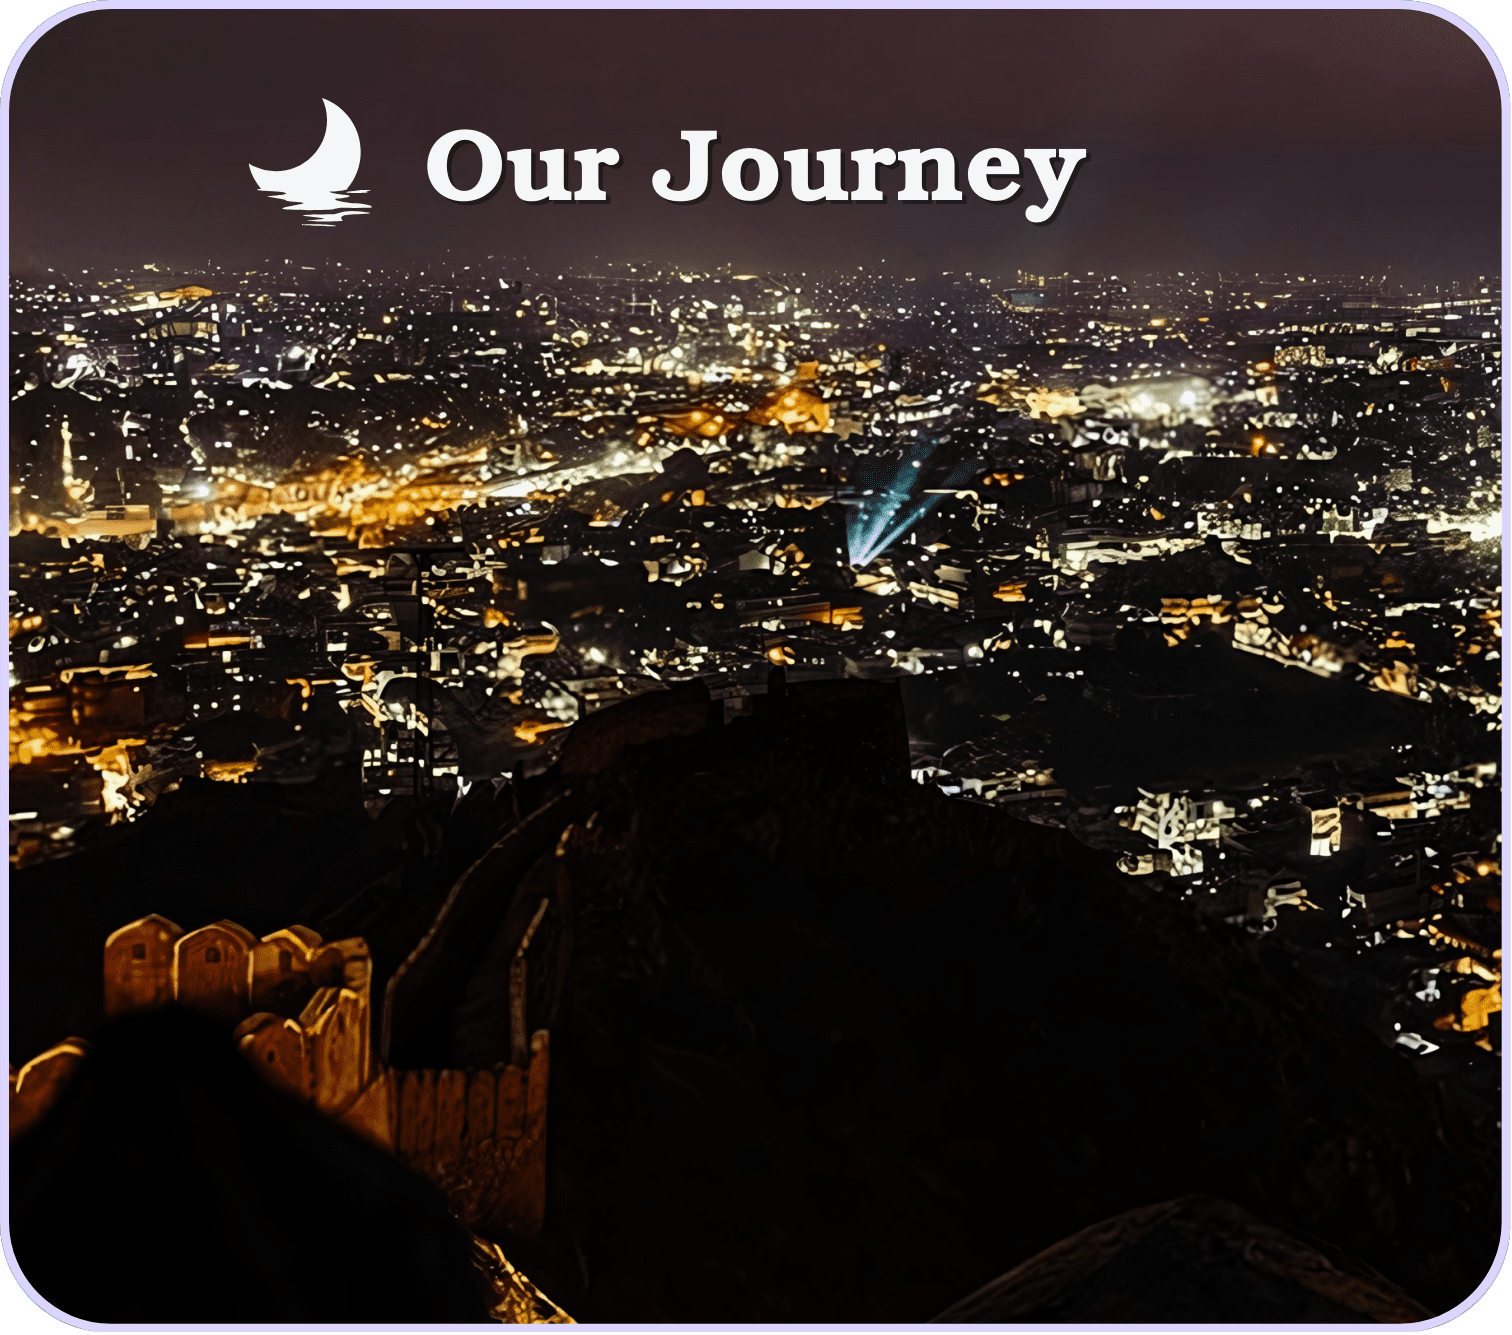
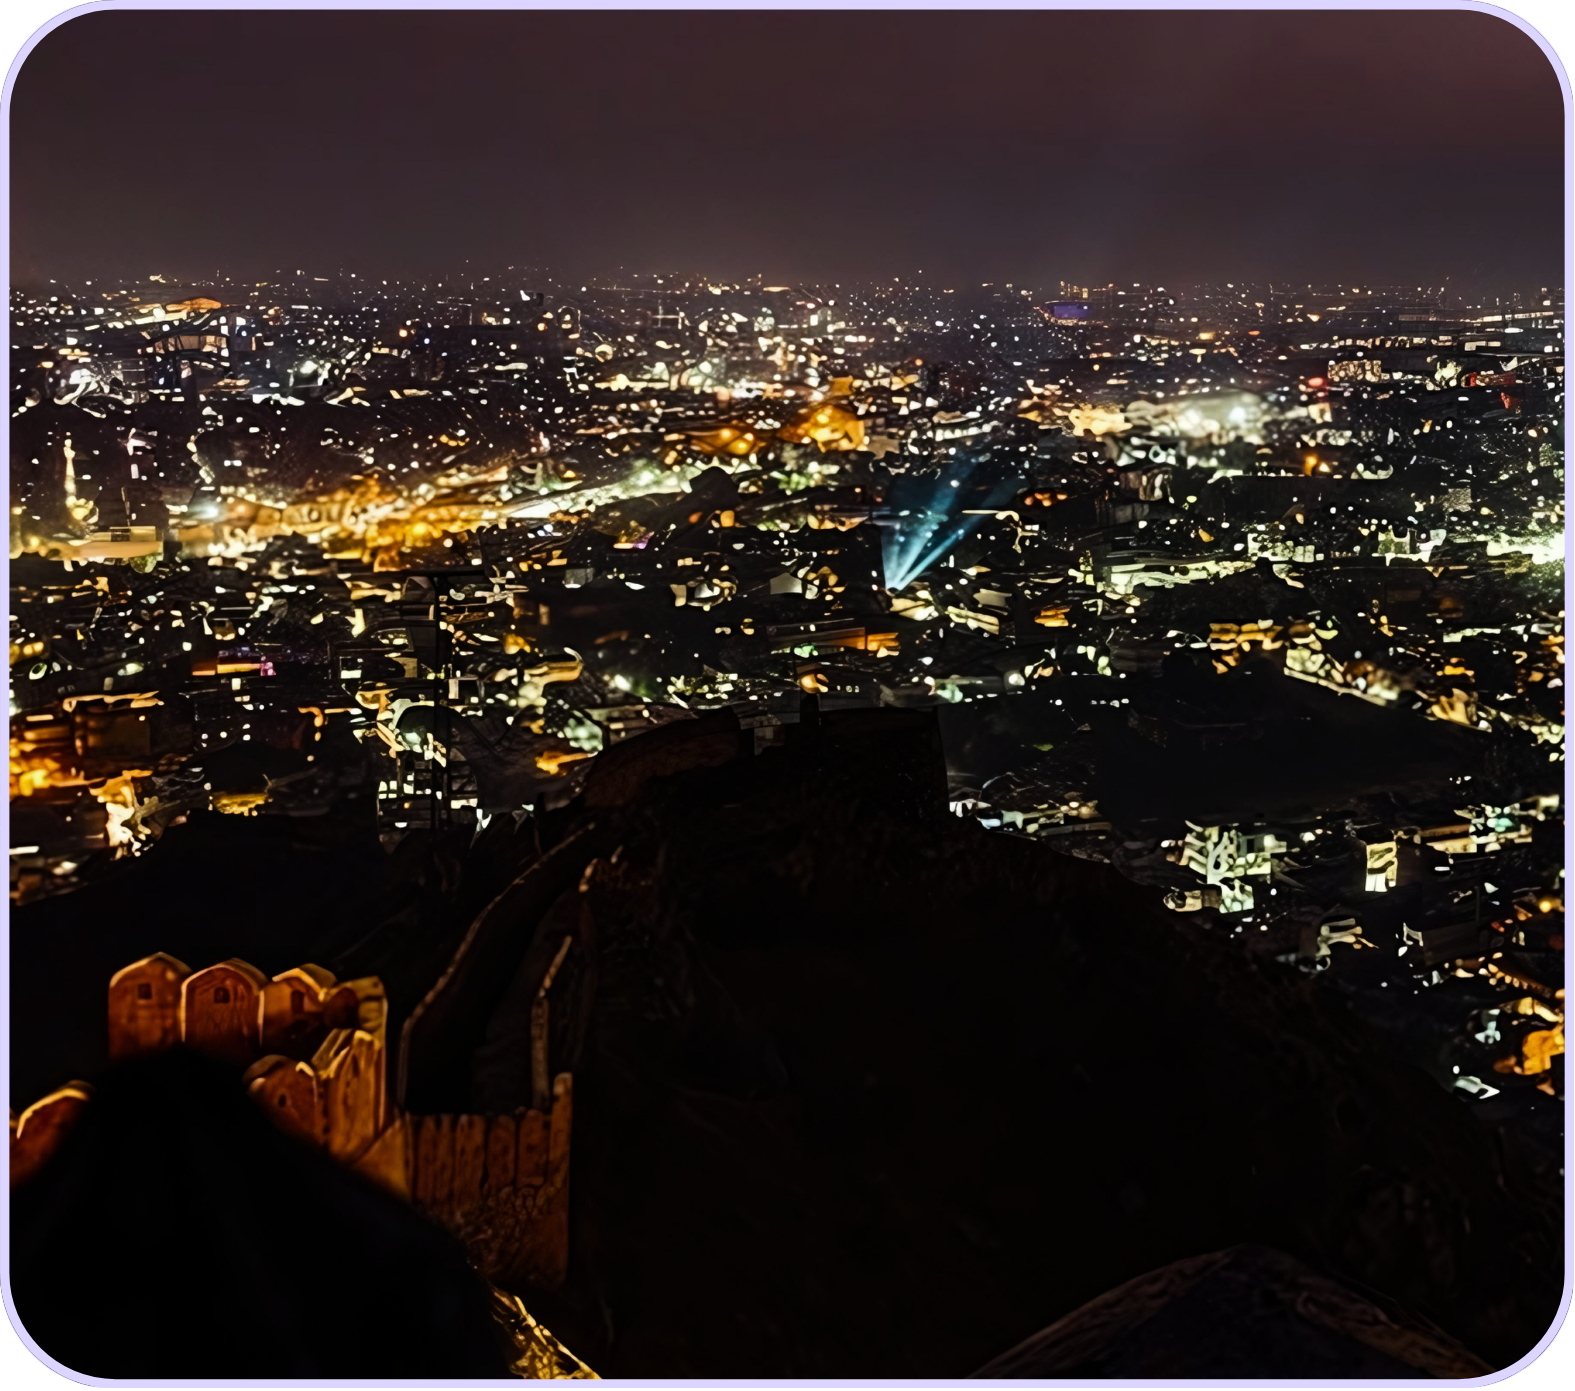
about us updated

diff --git a/frontend/src/pages/AboutUs.jsx b/frontend/src/pages/AboutUs.jsx
@@ -81,15 +81,20 @@ export const AboutUs = () => {
         />
       </div>
 
-      <div className="flex w-full h-[400px]">
-        <div className="relative h-full w-[25%] mx-auto my-8 ">
+      {/* Our journey box   */}
+
+      <div className="flex w-full h-[500px] border mt-[50px] ">
+        <div className="relative h-[85%] w-[25%] mx-auto my-8 rounded-3xl ">
           {" "}
           {/* Centering the component */}
           <img
             src={ourJourney}
             alt="Our Journey"
-            className="w-full h-full object-cover z-10"
+            className="w-full h-full object-fill z-10"
           />
+          {/* Positioned text on top of the image */}
+          <p className="absolute inset-0 flex  justify-center z-30 text-white  font-bold text-4xl  p-6 ">
+            Our Journey</p>
           <div className="absolute inset-0 bg-white z-20 p-8  mt-[25%]  rounded-3xl border-4 border-[#dbd5ff]">
             <p className="text-justify text-md mx-4">
               LunarEdge was founded with a clear mission: to generate value
@@ -102,15 +107,24 @@ export const AboutUs = () => {
           </div>
         </div>
 
-        <div className="relative h-[400px] w-[60%] mx-auto my-8 ">
-          {" "}
+          {/* Our Values box            */}
+          
+        <div className="relative h-[85%] w-[60%] mx-auto my-8">
           {/* Centering the component */}
           <img
             src={ourValues}
             alt="Our Journey"
-            className="h-[65%] w-full z-10"
+            className="h-[70%] object-fill w-[100%] z-10"
           />
-          <div className="absolute inset-0 bg-white z-20 p-8  mt-[10%]  rounded-3xl border-4 border-[#dbd5ff]">
+          {/* Positioned text on top of the image */}
+          <p className="absolute inset-0 flex flex-col items-center z-30 text-white  font-bold text-4xl  p-5 ">
+            <p>Our Values</p>
+            <p className="text-sm">
+              Lorem ipsum dolor sit amet consectetur adipisicing elit. Totam, eveniet!
+            </p>
+          </p>
+          {/* Existing content */}
+          <div className="absolute inset-0 bg-white z-20 p-8 mt-[13%] rounded-3xl border-4 border-[#dbd5ff]">
             <p className="text-justify text-md mx-4">
               Innovation: We are constantly exploring new ways to solve problems
               and create value. Integrity: We conduct our business with the
@@ -124,6 +138,7 @@ export const AboutUs = () => {
           </div>
         </div>
       </div>
+
 
       {/* our vision part  */}
       <AboutusPart
